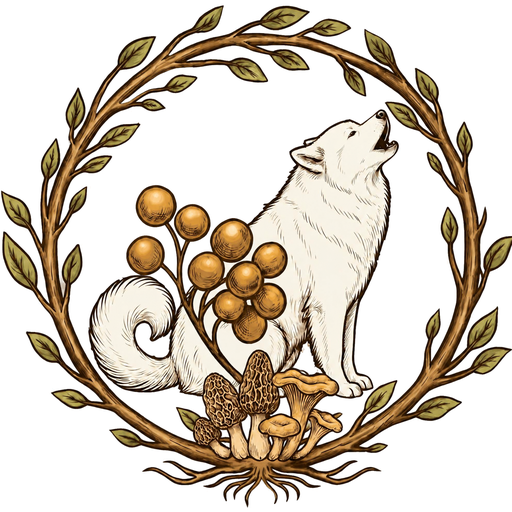
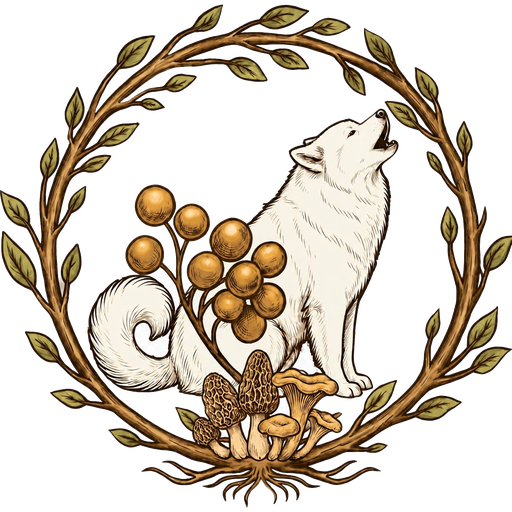
feat(hub): Goldberry wreath on Coal Ridge slate disc
Background cut to real transparency (flood-filled the baked checkerboard,
dropped stranded pockets between leaves, defringed the white halo) and
set the logo disc to #222222, the same slate Coal Ridge sits on.

diff --git a/apps/hub/app/globals.css b/apps/hub/app/globals.css
@@ -1459,8 +1459,8 @@ body:has(.hub-links)::before { display: none; }
 .hub-links__farm--hub .hub-links__farm-logo { object-fit: contain; padding: 6px; }
 .hub-links__farm--nursery { background: #a5490f; } /* nursery deep marigold */
 .hub-links__farm--goldberry { background: #5a2a4b; } /* Goldberry plum */
-/* The wordless wreath logo on its own white disc, fitted inside the shared circle. */
-.hub-links__farm--goldberry .hub-links__farm-logo { object-fit: contain; padding: 3px; background: #ffffff; }
+/* The wordless wreath logo (transparent) on the same slate disc as Coal Ridge. */
+.hub-links__farm--goldberry .hub-links__farm-logo { object-fit: contain; padding: 3px; background: #222222; }
 .hub-links__farm--sweetpotomac { background: #2f5d3a; } /* forest green */
 .hub-links__farm--coalridge { background: #2b2f33; } /* slate black */
 .hub-links__farm--coalridge .hub-links__farm-logo { background: #222222; }
